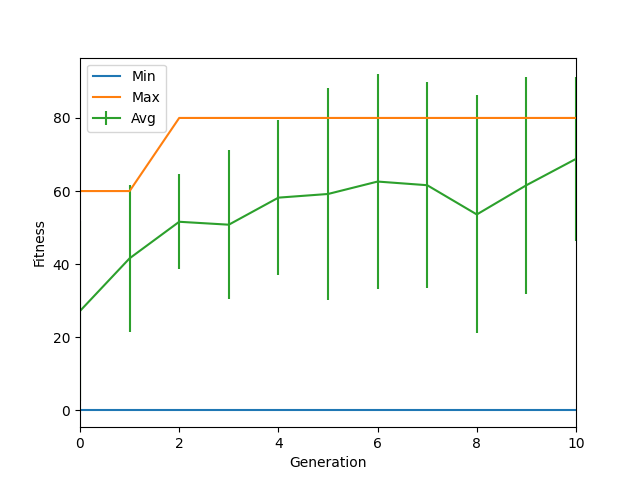
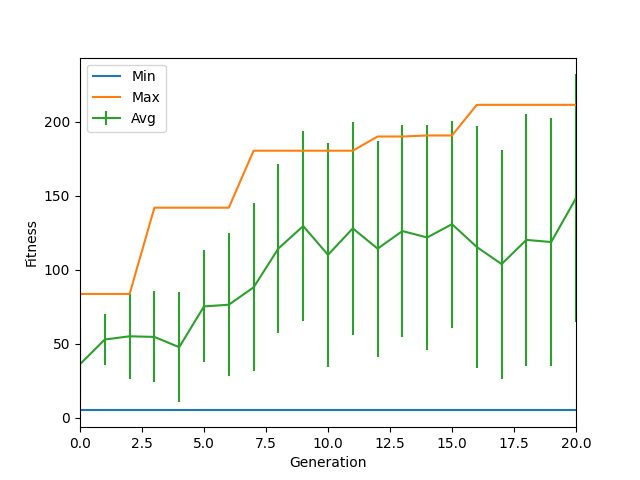
level 10 reached

diff --git a/main.py b/main.py
@@ -26,74 +26,6 @@ import traceback
 from gp_train import AgentSimulator, eval_function, laser_distance, exec2, exec3, if_then_else
 
 
-# def f1():
-#     return pset.addTerminal(gamerun.battleship.x)
-
-
-# def f2():
-#     return pset.addTerminal(gamerun.battleship.vel)
-
-
-# def f3():
-#     return pset.addTerminal(gamerun.battleship.health)
-
-
-# def f4():
-#     return pset.addTerminal(gamerun.aliens_x[0])
-
-
-# def f5():
-#     return pset.addTerminal(gamerun.aliens_x[1])
-
-
-# def f6():
-#     return pset.addTerminal(gamerun.laser_x[0])
-
-
-# def f7():
-#     return pset.addTerminal(gamerun.laser_y[0])
-
-
-# def f8():
-#     return pset.addTerminal(gamerun.laser_x[1])
-
-
-# def f9():
-#     return pset.addTerminal(gamerun.laser_y[1])
-
-
-# def f10():
-#     return pset.addTerminal(gamerun.laser_x[2])
-
-
-# def f11():
-#     return pset.addTerminal(gamerun.laser_y[2])
-
-
-# def f12():
-#     return pset.addTerminal(gamerun.laser_x[3])
-
-
-# def f13():
-#     return pset.addTerminal(gamerun.laser_y[3])
-
-
-# def f14():
-#     return pset.addTerminal(gamerun.laser_x[4])
-
-
-# def f15():
-#     return pset.addTerminal(gamerun.laser_y[4])
-
-
-# def f16():
-#     return pset.addTerminal(gamerun.laser_x[5])
-
-
-# def f17():
-#     return pset.addTerminal(gamerun.laser_y[5])
-
-
 def simulate_game(show_game, net=None, program=None, routine=None):
     gamerun.show_game = show_game
     if gamerun.show_game:
@@ -172,7 +104,7 @@ def simulate_game(show_game, net=None, program=None, routine=None):
     # health_fitness += gamerun.battleship_healths[-1]**2
     # health_fitness /= 10.0
 
-    fitness = gamerun.alienkills * 10 + gamerun.spaceshipkills * 50
+    fitness = gamerun.alienkills * 10 + gamerun.spaceshipkills * 50 + gamerun.battleship_healths[-1]/10.0
     # fitness = gamerun.alienkills * 100 + gamerun.spaceshipkills * 500 - gamerun.frames / 10000.0 - health_fitness
     # fitness = gamerun.frames
 
@@ -226,8 +158,8 @@ def save_best(genome, network):
         visualize.draw_net(config, genome, filename=f"runs/best/representation", view=False)
 
 
-GP_POP_SIZE = 50               # population size for GP
-GP_NGEN = 10                    # number of generations for GP
+GP_POP_SIZE = 50                # population size for GP
+GP_NGEN = 20                    # number of generations for GP
 GP_CXPB, GP_MUTPB = 0.5, 0.2    # crossover and mutation probability for GP
 GP_TRNMT_SIZE = 7               # tournament size for GP
 GP_HOF_SIZE = 2                 # size of the Hall-of-Fame for GP
@@ -325,12 +257,14 @@ if __name__ == "__main__":
     if args.gp:
         agent = AgentSimulator()
 
-        pset = gp.PrimitiveSetTyped("MAIN", [float]*17, bool)
+        pset = gp.PrimitiveSetTyped("MAIN", [float]*11, bool)
         pset.addPrimitive(if_then_else, [bool, float, float], float)
         # pset.addPrimitive(operator.add, 2)
         # pset.addPrimitive(operator.sub, 2)
         pset.addPrimitive(operator.gt, [float, float], bool)
         pset.addPrimitive(operator.eq, [float, float], bool)
+        pset.addPrimitive(operator.and_, [bool, bool], bool)
+        pset.addPrimitive(operator.or_, [bool, bool], bool)
         pset.addPrimitive(operator.neg, [bool], bool)
         pset.addPrimitive(operator.add, [float, float], float)
         pset.addPrimitive(operator.sub, [float, float], float)

diff --git a/gamerun.py b/gamerun.py
@@ -837,9 +837,11 @@ def run(win, net=None, program=None, routine=None):
         # }
 
         aliens_x = [0, 0, 0]
+        aliens_y = [0, 0, 0]
         for a, alien in enumerate(aliens):
             if a < 3:
                 aliens_x[a] = alien.x
+                aliens_y[a] = alien.y
 
         laser_x = [0, 0, 0, 0, 0, 0]
         laser_y = [0, 0, 0, 0, 0, 0]
@@ -852,9 +854,11 @@ def run(win, net=None, program=None, routine=None):
                 laser_y[e] = enemy_laser_with_distance[0].y
 
         enemy_spaceships_x = [0]
+        enemy_spaceships_y = [0]
         for s, enemy_spaceship in enumerate(enemy_spaceships):
             if s < 1:
                 enemy_spaceships_x[s] = enemy_spaceship.x
+                enemy_spaceships_y[s] = enemy_spaceship.y
 
         # TODO pass to the network relevant information as input
         if net:
@@ -876,7 +880,32 @@ def run(win, net=None, program=None, routine=None):
             }
 
         if program:
-            program.run(routine)
+            program.run(routine, 
+                battleship.x,
+                # battleship.y,
+                battleship.vel,
+                # battleship.health,
+                aliens_x[0],
+                # aliens_y[0],
+                aliens_x[1],
+                # aliens_y[1],
+                laser_x[0],
+                laser_y[0],
+                laser_x[1],
+                laser_y[1],
+                # laser_x[2],
+                # laser_y[2],
+                # laser_x[3],
+                # laser_y[3],
+                # laser_x[4],
+                # laser_y[4],
+                # laser_x[5],
+                # laser_y[5],
+                enemy_lasers_with_distance[0][1] if len(enemy_lasers_with_distance)>0 else 999999,
+                enemy_lasers_with_distance[0][1] if len(enemy_lasers_with_distance)>1 else 999999,
+                enemy_spaceships_x[0],
+                # enemy_spaceships_y[0],
+            )
             keys = program.keys
 
     if keys[K_LEFT]:

diff --git a/gp_train.py b/gp_train.py
@@ -42,27 +42,8 @@ class AgentSimulator(object):
         self.keys[gamerun.K_RIGHT] = True
         self.keys[gamerun.K_SPACE] = True
 
-    def run(self, routine):
-        direction = routine(
-            gamerun.battleship.x,
-            gamerun.battleship.vel,
-            # gamerun.battleship.health,
-            gamerun.aliens_x[0],
-            gamerun.aliens_x[1],
-            gamerun.laser_x[0],
-            gamerun.laser_y[0],
-            gamerun.laser_x[1],
-            gamerun.laser_y[1],
-            gamerun.laser_x[2],
-            gamerun.laser_y[2],
-            gamerun.laser_x[3],
-            gamerun.laser_y[3],
-            gamerun.laser_x[4],
-            gamerun.laser_y[4],
-            gamerun.laser_x[5],
-            gamerun.laser_y[5],
-            gamerun.enemy_spaceships_x[0]
-        )
+    def run(self, routine, *args):
+        direction = routine(*args)
 
         self.keys[gamerun.K_LEFT] = direction
         self.keys[gamerun.K_RIGHT] = not direction
